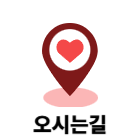
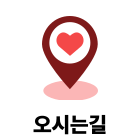
로고 및 아이콘 변경

diff --git a/src/components/SermonSection.js b/src/components/SermonSection.js
@@ -11,9 +11,9 @@ import sum2Image from './images/sum2.png';
 // ── 원본 아이콘 (001~006) ──
 import iconImage  from './images/001.png';
 import iconImage2 from './images/002.png';
-import iconImage3 from './images/003.png';
-import iconImage4 from './images/004.png';
-import iconImage5 from './images/006.png';
+import iconImage3 from './images/004.png';
+import iconImage4 from './images/007.png';
+import iconImage5 from './images/013.png';
 import iconImage6 from './images/005.png';
 
 // ── 첫 번째 교차 아이콘 (new1~new6) ──
